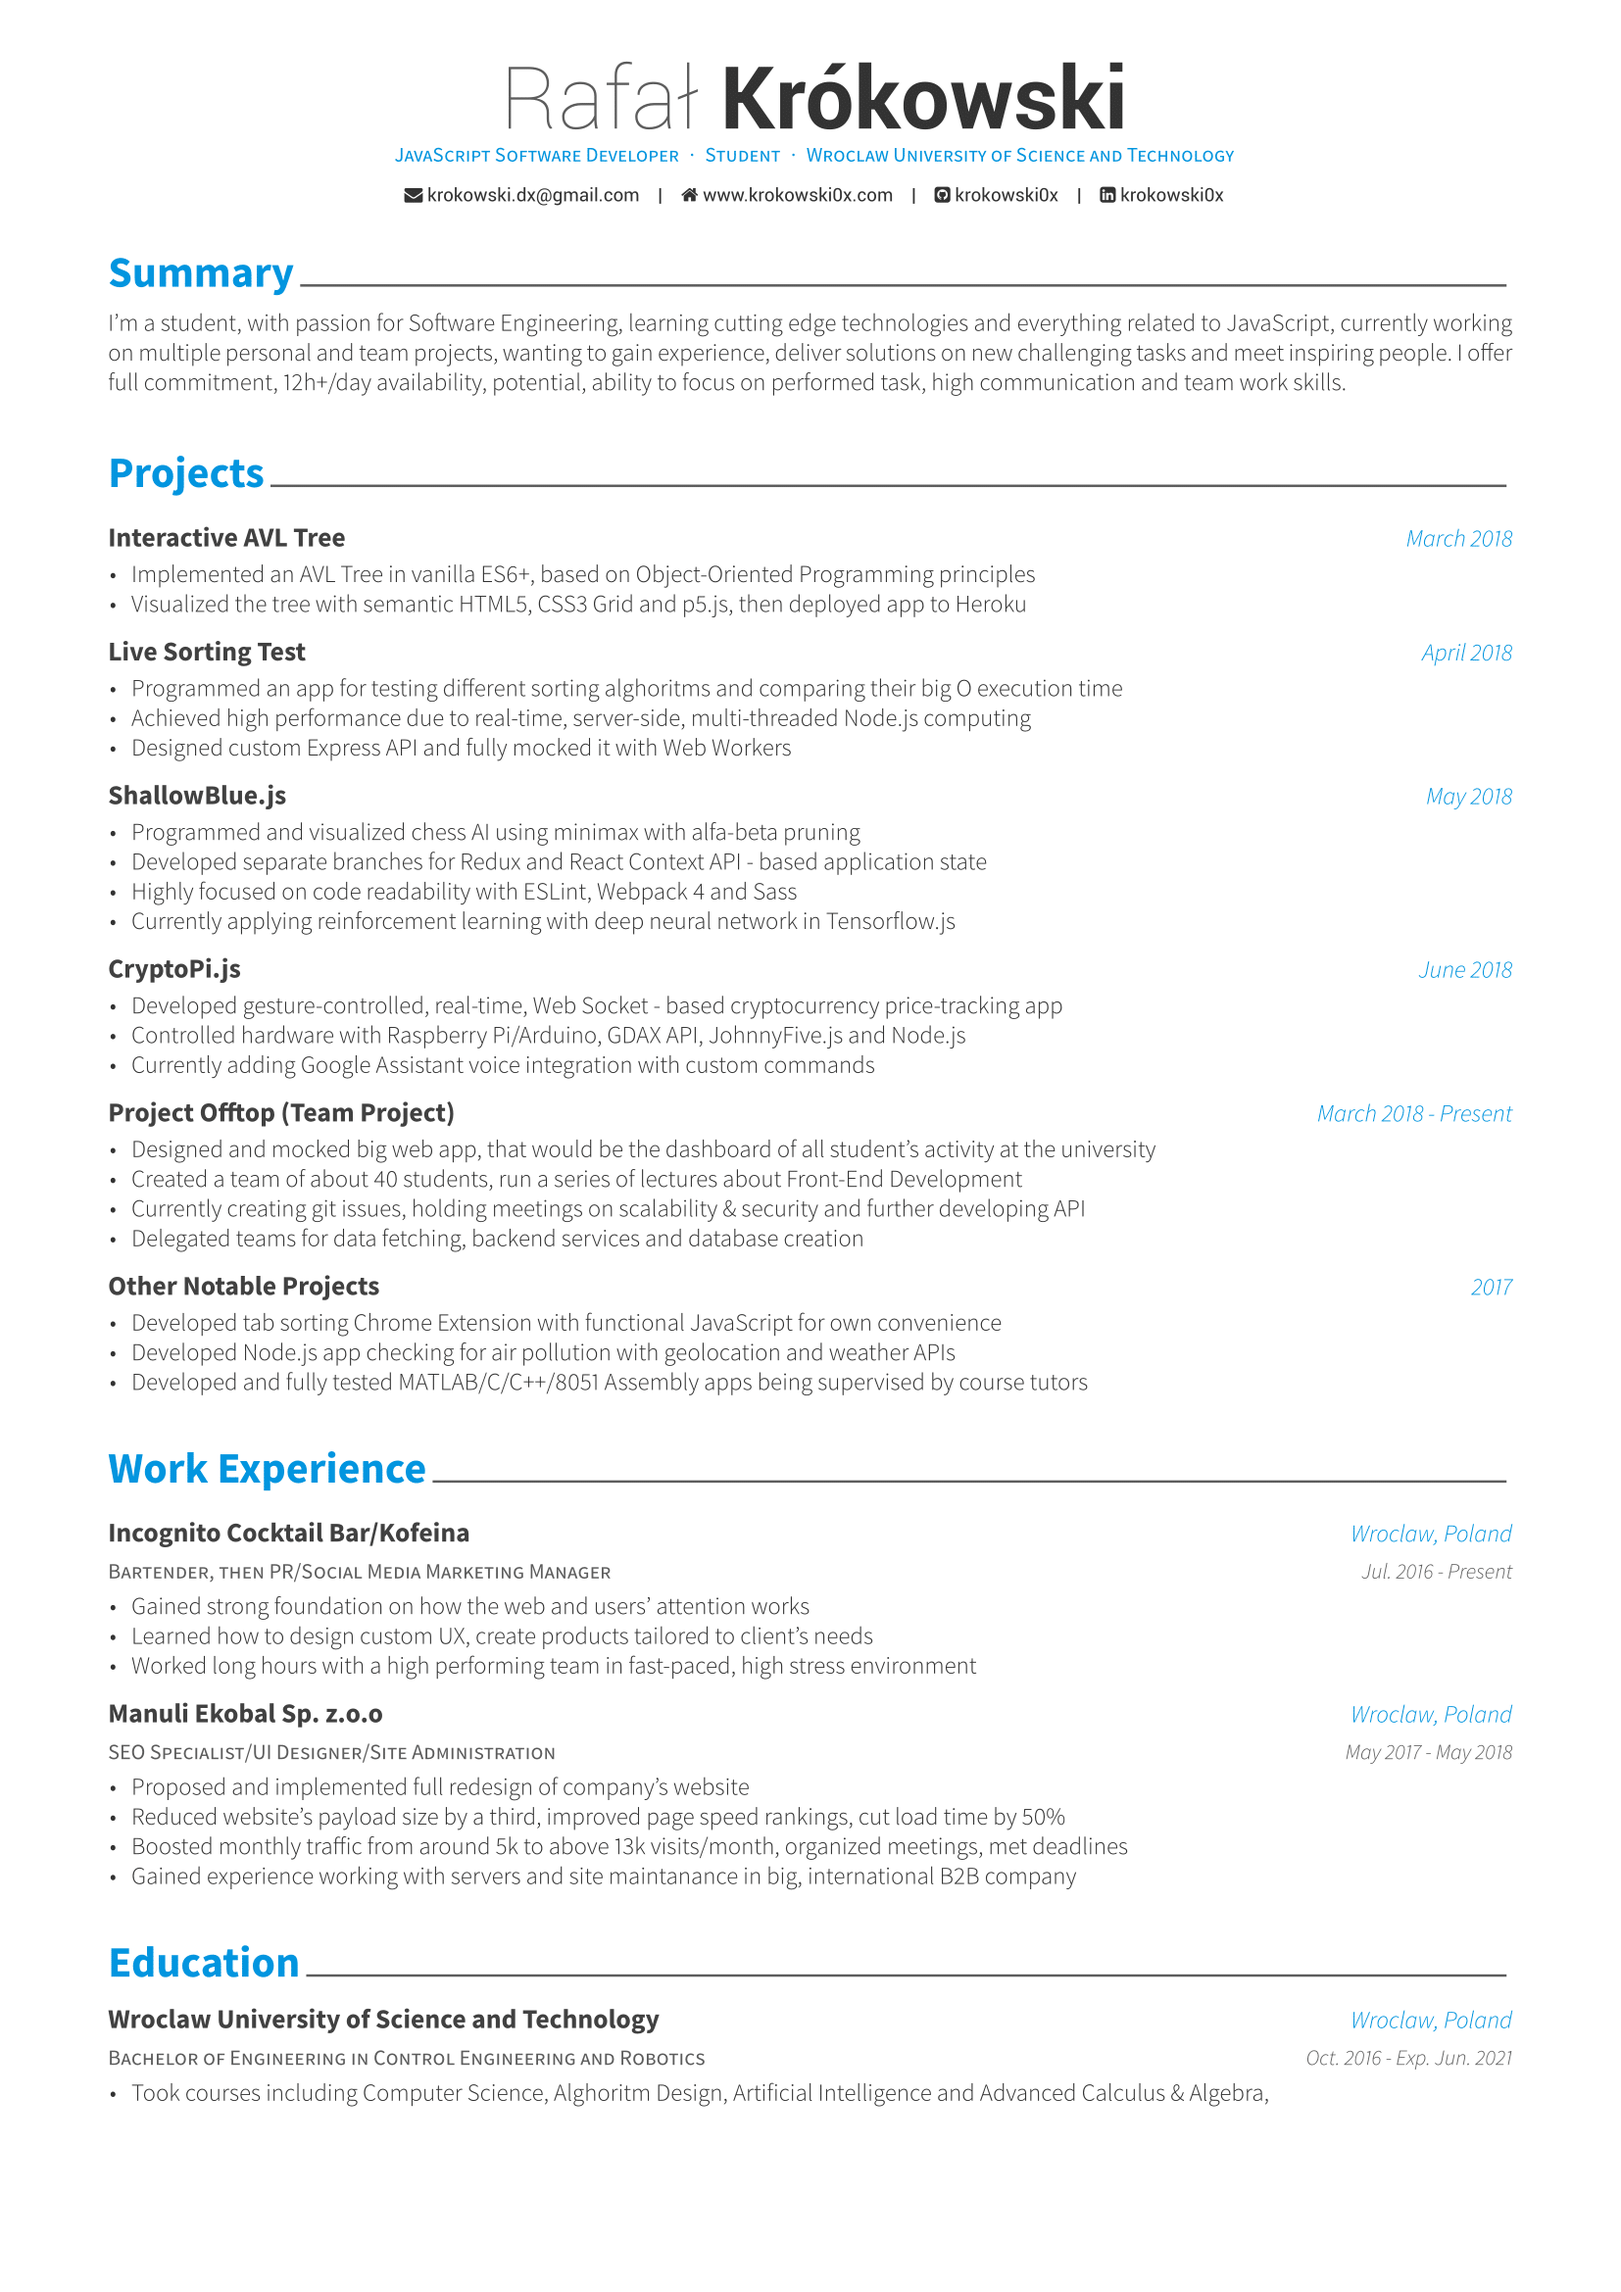
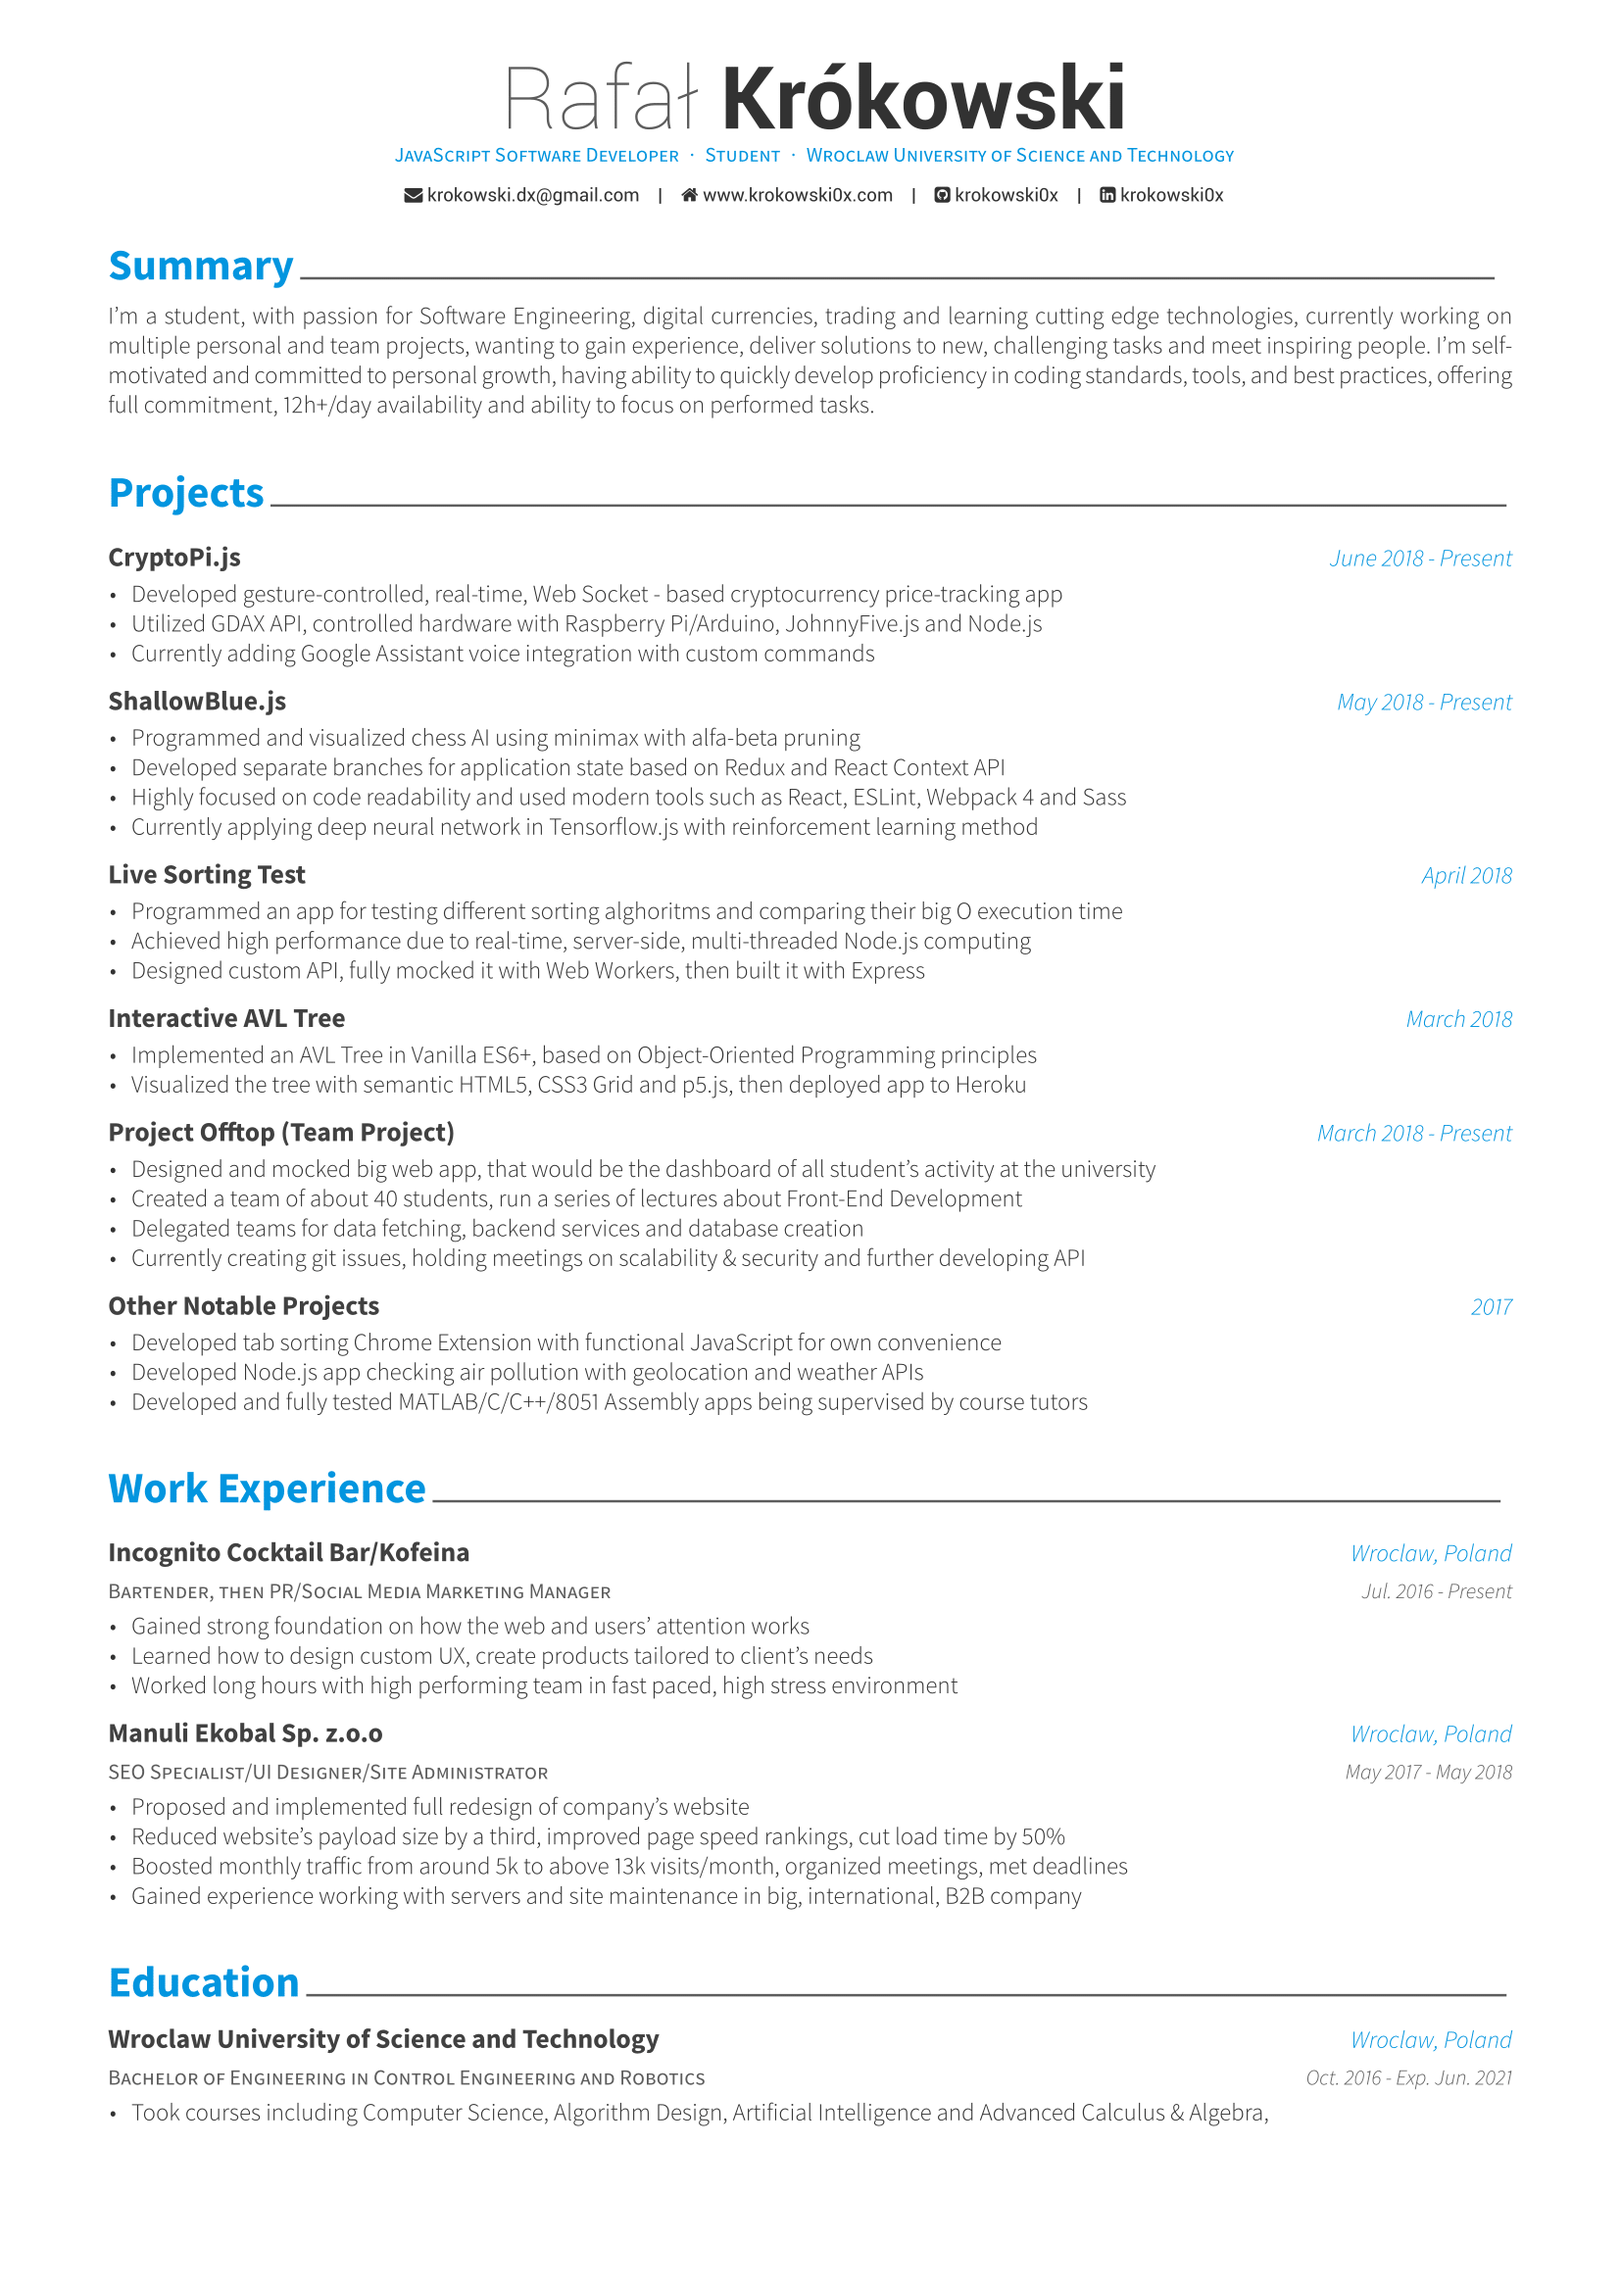
Updated Resume with some minor syntax changes

diff --git a/resume/projects.tex b/resume/projects.tex
@@ -7,6 +7,42 @@
 %	CONTENT
 %-------------------------------------------------------------------------------
 \begin{cventries}
+  %---------------------------------------------------------
+  \cventryproject
+  {CryptoPi.js} % Project name
+  {June 2018 - Present} % Date(s)
+    {
+      \begin{cvitems} % Description(s) bullet points
+        \item Developed gesture-controlled, real-time, Web Socket - based cryptocurrency price-tracking app
+        \item Utilized GDAX API, controlled hardware with Raspberry Pi/Arduino, JohnnyFive.js and Node.js
+        \item Currently adding Google Assistant voice integration with custom commands
+    \end{cvitems}
+    }
+
+    %---------------------------------------------------------
+    \cventryproject
+    {ShallowBlue.js} % Project name
+    {May 2018 - Present} % Date(s)
+      {
+        \begin{cvitems} % Description(s) bullet points
+          \item Programmed and visualized chess AI using minimax with alfa-beta pruning
+          \item Developed separate branches for application state based on Redux and React Context API
+          \item Highly focused on code readability and used modern tools such as React, ESLint, Webpack 4 and Sass
+          \item Currently applying deep neural network in Tensorflow.js with reinforcement learning method
+      \end{cvitems}
+      }
+
+      %---------------------------------------------------------
+      \cventryproject
+      {Live Sorting Test} % Project name
+      {April 2018} % Date(s)
+        {
+          \begin{cvitems} % Description(s) bullet points
+            \item Programmed an app for testing different sorting alghoritms and comparing their big O execution time
+            \item Achieved high performance due to real-time, server-side, multi-threaded Node.js computing
+            \item Designed custom API, fully mocked it with Web Workers, then built it with Express
+        \end{cvitems}
+        }
 
 %---------------------------------------------------------
 \cventryproject
@@ -14,45 +50,8 @@
   {March 2018} % Date(s)
   {
     \begin{cvitems} % Description(s) bullet points
-      \item Implemented an AVL Tree in vanilla ES6+, based on Object-Oriented Programming principles
+      \item Implemented an AVL Tree in Vanilla ES6+, based on Object-Oriented Programming principles
       \item Visualized the tree with semantic HTML5, CSS3 Grid and p5.js, then deployed app to Heroku
-  \end{cvitems}
-  }
-
-%---------------------------------------------------------
-\cventryproject
-{Live Sorting Test} % Project name
-{April 2018} % Date(s)
-  {
-    \begin{cvitems} % Description(s) bullet points
-      \item Programmed an app for testing different sorting alghoritms and comparing their big O execution time
-      \item Achieved high performance due to real-time, server-side, multi-threaded Node.js computing
-      \item Designed custom Express API and fully mocked it with Web Workers
-  \end{cvitems}
-  }
-
-%---------------------------------------------------------
-\cventryproject
-{ShallowBlue.js} % Project name
-{May 2018} % Date(s)
-  {
-    \begin{cvitems} % Description(s) bullet points
-      \item Programmed and visualized chess AI using minimax with alfa-beta pruning
-      \item Developed separate branches for Redux and React Context API - based application state
-      \item Highly focused on code readability with ESLint, Webpack 4 and Sass
-      \item Currently applying reinforcement learning with deep neural network in Tensorflow.js
-  \end{cvitems}
-  }
-
-%---------------------------------------------------------
-\cventryproject
-{CryptoPi.js} % Project name
-{June 2018} % Date(s)
-  {
-    \begin{cvitems} % Description(s) bullet points
-      \item Developed gesture-controlled, real-time, Web Socket - based cryptocurrency price-tracking app
-      \item Controlled hardware with  Raspberry Pi/Arduino, GDAX API, JohnnyFive.js and Node.js
-      \item Currently adding Google Assistant voice integration with custom commands
   \end{cvitems}
   }
 
@@ -64,8 +63,8 @@
     \begin{cvitems} % Description(s) bullet points
       \item Designed and mocked big web app, that would be the dashboard of all student's activity at the university
       \item Created a team of about 40 students, run a series of lectures about Front-End Development
+       \item Delegated teams for data fetching, backend services and database creation
       \item Currently creating git issues, holding meetings on scalability \& security and further developing API
-      \item Delegated teams for data fetching, backend services and database creation
       \end{cvitems}
   }
 
@@ -76,7 +75,7 @@
   {
     \begin{cvitems} % Description(s) bullet points
       \item Developed tab sorting Chrome Extension with functional JavaScript for own convenience
-      \item Developed Node.js app checking for air pollution with geolocation and weather APIs
+      \item Developed Node.js app checking air pollution with geolocation and weather APIs
       \item Developed and fully tested MATLAB/C/C++/8051 Assembly apps being supervised by course tutors
   \end{cvitems}
   }

diff --git a/resume/experience.tex b/resume/experience.tex
@@ -2,10 +2,6 @@
 %	SECTION TITLE
 %-------------------------------------------------------------------------------
 \cvsection{Work Experience}
-
-%-------------------------------------------------------------------------------
-%	CONTENT
-%-------------------------------------------------------------------------------
 \begin{cventries}
 
 %---------------------------------------------------------
@@ -18,13 +14,13 @@
       \begin{cvitems} % Description(s) of tasks/responsibilities
         \item Gained strong foundation on how the web and users' attention works
         \item Learned how to design custom UX, create products tailored to client's needs
-        \item Worked long hours with a high performing team in fast-paced, high stress environment
+        \item Worked long hours with high performing team in fast paced, high stress environment
       \end{cvitems}
     }
 
 %---------------------------------------------------------
   \cventry
-    {SEO Specialist/UI Designer/Site Administration} % Job title
+    {SEO Specialist/UI Designer/Site Administrator} % Job title
     {Manuli Ekobal Sp. z.o.o} % Organization
     {Wroclaw, Poland} % Location
     {May 2017 - May 2018} % Date(s)
@@ -33,7 +29,7 @@
       \item Proposed and implemented full redesign of company's website
         \item Reduced website's payload size by a third, improved page speed rankings, cut load time by 50\%
         \item Boosted monthly traffic from around 5k to above 13k visits/month, organized meetings, met deadlines
-        \item Gained experience working with servers and site maintanance in big, international B2B company
+        \item Gained experience working with servers and site maintenance in big, international, B2B company
       \end{cvitems}
     }
 

diff --git a/resume.tex b/resume.tex
@@ -25,15 +25,8 @@
 
 % Configure page margins with geometry
 \geometry{left=1.4cm, top=.8cm, right=1.4cm, bottom=1.8cm, footskip=.5cm}
-
-% Specify the location of the included fonts
 \fontdir[fonts/]
-
-% Color for highlights
 \colorlet{awesome}{awesome-skyblue}
-% Uncomment if you would like to specify your own color
-% \definecolor{awesome}{HTML}{CA63A8}
-
 \setbool{acvSectionColorHighlight}{true}
 
 \renewcommand{\acvHeaderSocialSep}{\quad\textbar\quad}
@@ -49,28 +42,14 @@
 \position{JavaScript Software Developer{\enskip\cdotp\enskip}Student{\enskip\cdotp\enskip}Wroclaw University of Science and Technology}
 
 \email{krokowski.dx@gmail.com}
-\homepage{www.krokowski0x.com}
 \github{krokowski0x}
+\homepage{www.krokowski0x.com}
 \linkedin{krokowski0x}
 
 %-------------------------------------------------------------------------------
 \begin{document}
-
-% Print the header with above personal informations
 \makecvheader[C]
 
-% Print the footer with 3 arguments(<left>, <center>, <right>)
-% Leave any of these blank if they are not needed
-%\makecvfooter
-%  {\today}
-%  {Claud D. Park~~~·~~~Résumé}
-%  {\thepage}
-
-
-%-------------------------------------------------------------------------------
-%	CV/RESUME CONTENT
-%	Each section is imported separately, open each file in turn to modify content
-%-------------------------------------------------------------------------------
 \input{resume/summary.tex}
 \input{resume/projects.tex}
 \input{resume/experience.tex}

diff --git a/resume/summary.tex b/resume/summary.tex
@@ -2,14 +2,8 @@
 %	SECTION TITLE
 %-------------------------------------------------------------------------------
 \cvsection{Summary}
-
-
-%-------------------------------------------------------------------------------
-%	CONTENT
-%-------------------------------------------------------------------------------
 \begin{cvparagraph}
 
-%---------------------------------------------------------
+I'm a student, with passion for Software Engineering, digital currencies, trading and learning cutting edge technologies, currently working on multiple personal and team projects, wanting to gain experience, deliver solutions to new, challenging tasks and meet inspiring people. I'm self-motivated and committed to personal growth, having ability to quickly develop proficiency in coding standards, tools, and best practices, offering full commitment, 12h+/day availability and ability to focus on performed tasks.
 
-I'm a student, with passion for Software Engineering, learning cutting edge technologies and everything related to JavaScript, currently working on multiple personal and team projects, wanting to gain experience, deliver solutions on new challenging tasks and meet inspiring people. I offer full commitment, 12h+/day availability, potential, ability to focus on performed task, high communication and team work skills.
 \end{cvparagraph}

diff --git a/resume/education.tex b/resume/education.tex
@@ -16,7 +16,7 @@
     {Oct. 2016 - Exp. Jun. 2021} % Date(s)
     {
       \begin{cvitems} % Description(s) bullet points
-        \item {Took courses including Computer Science, Alghoritm Design, Artificial Intelligence and Advanced Calculus \& Algebra,}
+        \item {Took courses including Computer Science, Algorithm Design, Artificial Intelligence and Advanced Calculus \& Algebra,}
       \end{cvitems}
     }
 
